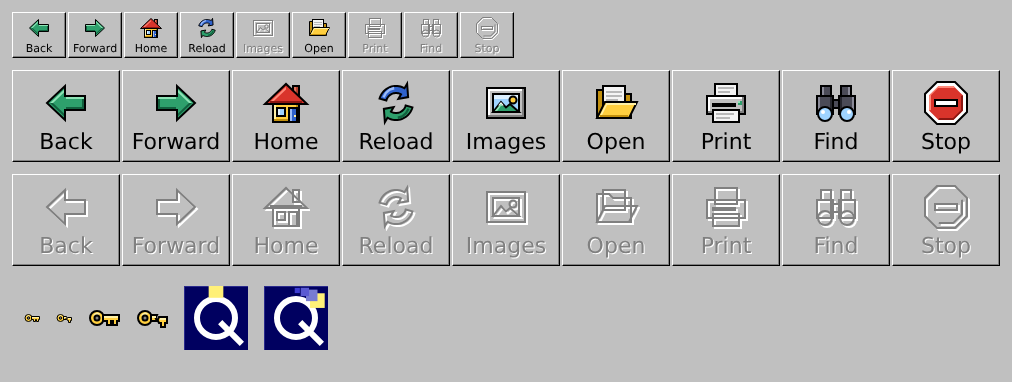
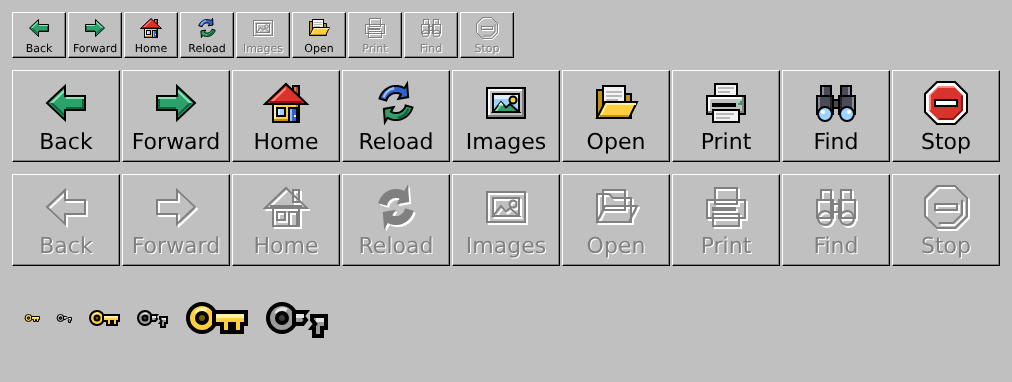
Tydligare nyckel, throbbern i kod, licens och avstängd Ladda om
Efter granskningen av #8:

- Nyckeln: hel är guld, bruten är grå och i två delar med ett avbrott
  och den yttre delen nedfallen, så skillnaden syns i 16 bildpunkter.
- Throbbern rör sig och ritas i kod (qb_icon_throbber). De två
  stillbilderna är borttagna.
- Avstängd Ladda om är en grå siluett; bågarna var för smala för två
  konturer om varandra vid 100 %.
- LICENSE: Apache 2.0, som generic_gdi och browser, och ett avsnitt om
  licensen i README.

Claude-Session: https://claude.ai/code/session_01QpfqBt8BiUYdJsvCunZ25n

Changed region(s): [[0.1225, 0.7487, 0.337, 0.9215], [0.3676, 0.4895, 0.4289, 0.6047]]

diff --git a/verktyg/webblasare.py b/verktyg/webblasare.py
@@ -11,8 +11,7 @@ Skriver svg/webblasare/:
       samma knapp avstängd: konturen i grått med en vit skugga, som förr
   nyckel-hel, nyckel-bruten
       statusradens nyckel, 16 x 16 u
-  throbber, throbber-laddar
-      bilden uppe till höger, 64 x 64 u, i vila och i en bild ur rörelsen
+Throbbern uppe till höger rör sig och ritas i kod (qb_icon_throbber), inte här.
 
 Stilen: svart kontur, platta färger, en ljus fasett uppe till vänster och en
 mörk nere till höger, som ikonerna i verktygsfälten i mitten av 90-talet.
@@ -93,16 +92,19 @@ def ljushet(hexf):
     return 0.2126 * r + 0.7152 * g + 0.0722 * b
 
 
-def inaktiv(former):
+def inaktiv(former, siluett=False):
     """
     Avstängd som i verktygsfälten förr: konturen och de mörka ytorna i
     grått, och samma sak i vitt en enhet ned och åt höger, bakom.
-    De ljusa ytorna försvinner.
+    De ljusa ytorna försvinner. Med siluett fylls varje form med kontur,
+    för en knapp vars former är för smala för två konturer i 24 bildpunkter.
     """
     def lager(farg, dx):
         ut = []
         for typ, g, fy, ko in former:
-            fyll = farg if ljushet(fy) < 0.2 else "none"
+            if siluett and not ko:
+                continue
+            fyll = farg if siluett or ljushet(fy) < 0.2 else "none"
             if fyll == "none" and not ko:
                 continue
             g2 = flytta((typ, g), dx)
@@ -306,7 +308,7 @@ KNAPPAR = {
     "bakat": ("Bakåt", "QBI_BACK", bakat),
     "framat": ("Framåt", "QBI_FORWARD", framat),
     "hem": ("Hem", "QBI_HOME", hem),
-    "ladda-om": ("Ladda om", "QBI_RELOAD", ladda_om),
+    "ladda-om": ("Ladda om", "QBI_RELOAD", ladda_om, True),
     "bilder": ("Bilder", "QBI_IMAGES", bilder),
     "oppna": ("Öppna", "QBI_OPEN", oppna),
     "skriv-ut": ("Skriv ut", "QBI_PRINT", skriv_ut),
@@ -315,14 +317,19 @@ KNAPPAR = {
 }
 
 
-# ---------------------------------------------------------------- nyckeln och throbbern
+# ---------------------------------------------------------------- nyckeln
 
 def nyckel(hel):
-    l, b, m = P["gul"]
+    """
+    Hel: guld, en säker anslutning. Bruten: grå, i två delar med ett tydligt
+    avbrott och den yttre delen nedfallen, så att skillnaden syns i 16 bildpunkter.
+    """
+    l, b, m = P["gul"] if hel else ("#E4E4E4", "#9C9C9C", "#5E5E5E")
+    hal = "#7A5A00" if hel else "#3C3C3C"
     ut = [
         cirkel(4.5, 8, 3.5, b),                    # handtaget
         bana("M2.6 6.6 A2.4 2.4 0 0 1 5.9 5.6 L5.4 6.5 A1.4 1.4 0 0 0 3.5 7.2 Z", l, False),
-        cirkel(4.5, 8, 1.25, "#808080"),           # hålet
+        cirkel(4.5, 8, 1.25, hal),                 # hålet
     ]
     if hel:
         ut += [
@@ -332,36 +339,15 @@ def nyckel(hel):
         ]
     else:
         ut += [
-            poly([(7.5, 6.5), (10.5, 6.5), (9.8, 8), (10.5, 9.5), (7.5, 9.5)], b),
+            # stumpen vid handtaget, med en sågtandad brottyta
+            poly([(7.5, 6.5), (10.5, 6.5), (9.7, 7.5), (10.5, 8.5), (9.7, 9.5), (7.5, 9.5)], b),
             rekt(8, 7, 2, 1, l),
-            poly([(11.5, 7.5), (15.5, 7.5), (15.5, 10.5), (14.5, 10.5), (14.5, 12.5), (12.5, 12.5),
-                  (12.5, 10.5), (11.5, 10.5), (10.8, 9)], b),
-            rekt(12, 8, 3, 1, l),
+            # den yttre delen, en och en halv enhet bort och fallen ett steg
+            poly([(12, 7.5), (15.5, 7.5), (15.5, 10.5), (14.5, 10.5), (14.5, 12.5), (12.5, 12.5),
+                  (12.5, 10.5), (12, 10.5), (12.8, 9.5), (12, 8.5)], b),
+            rekt(13, 8, 2, 1, l),
         ]
     return ut
-
-
-def throbber(laddar):
-    """QzOS-Q:et med sina kometer, som qb_icon_throbber ritar det"""
-    s = '<rect x="0" y="0" width="64" height="64" fill="#000060"/>'
-    s += '<rect x="0" y="0" width="64" height="1" fill="#2A2A8C"/><rect x="0" y="0" width="1" height="64" fill="#2A2A8C"/>'
-    cx, cy, r = 32, 32, 19
-    s += f'<circle cx="{cx}" cy="{cy}" r="{r}" fill="none" stroke="#FFFFFF" stroke-width="6"/>'
-    s += (f'<path d="M{f(cx + r / 3)} {f(cy + r / 3)} L{f(cx + r * 1.25)} {f(cy + r * 1.25)}" '
-          f'fill="none" stroke="#FFFFFF" stroke-width="6" stroke-linecap="square"/>')
-    if laddar:
-        bild = 16  # en bild där kometerna är uppe till höger
-        for i in range(4):
-            a = bild * 0.35 - i * 0.28
-            px, py = cx + math.cos(a) * r * 1.45, cy + math.sin(a) * r * 1.45
-            d = (4 - i) * r / 12 + 1
-            c = "#FFF078" if i == 0 else ["#787CD2", "#5A5AD2", "#3C3CD2"][i - 1]
-            s += f'<rect x="{f(px - d)}" y="{f(py - d)}" width="{f(2 * d)}" height="{f(2 * d)}" fill="{c}"/>'
-    else:
-        d = 4 * r / 12 + 1
-        px, py = cx, cy - r * 1.45
-        s += f'<rect x="{f(px - d)}" y="{f(py - d)}" width="{f(2 * d)}" height="{f(2 * d)}" fill="#FFF078"/>'
-    return s
 
 
 # ---------------------------------------------------------------- filerna
@@ -376,16 +362,14 @@ def bygg():
     for gammal in UT.glob("*.svg"):
         gammal.unlink()
     n = 0
-    for namn, (titel, _, fn) in KNAPPAR.items():
+    for namn, (titel, _, fn, *flagga) in KNAPPAR.items():
+        siluett = bool(flagga and flagga[0])
         former = fn()
         (UT / f"{namn}.svg").write_text(dokument(24, titel, "".join(svg_form(s) for s in former)), encoding="utf-8")
-        (UT / f"{namn}-inaktiv.svg").write_text(dokument(24, f"{titel}, inaktiv", inaktiv(former)), encoding="utf-8")
+        (UT / f"{namn}-inaktiv.svg").write_text(dokument(24, f"{titel}, inaktiv", inaktiv(former, siluett)), encoding="utf-8")
         n += 2
     for hel, namn, titel in ((True, "nyckel-hel", "Säker anslutning"), (False, "nyckel-bruten", "Osäker anslutning")):
         (UT / f"{namn}.svg").write_text(dokument(16, titel, "".join(svg_form(s) for s in nyckel(hel))), encoding="utf-8")
-        n += 1
-    for laddar, namn, titel in ((False, "throbber", "QzOS, i vila"), (True, "throbber-laddar", "QzOS, laddar")):
-        (UT / f"{namn}.svg").write_text(dokument(64, titel, throbber(laddar)), encoding="utf-8")
         n += 1
     return n
 

diff --git a/verktyg/oversikt.py b/verktyg/oversikt.py
@@ -139,7 +139,7 @@ def webblasare():
 
     ovrigt = (f'<div class=f style="gap:16px;align-items:center;padding:8px 12px">'
               f'{fil("nyckel-hel", 1)}{fil("nyckel-bruten", 1)}{fil("nyckel-hel", 2)}{fil("nyckel-bruten", 2)}'
-              f'{fil("throbber", 1)}{fil("throbber-laddar", 1)}</div>')
+              f'{fil("nyckel-hel", 4)}{fil("nyckel-bruten", 4)}</div>')
     return f"""<!doctype html><meta charset=utf-8><style>
 body{{margin:0;padding:12px;background:#C0C0C0;font-family:"DejaVu Sans",sans-serif;width:max-content}}
 .f{{display:flex;gap:2px;margin-bottom:12px}}

diff --git a/README.md b/README.md
@@ -127,15 +127,15 @@ efter Netscape.
 |---|---|---|
 | `bakat`, `framat`, `hem`, `ladda-om`, `bilder`, `oppna`, `skriv-ut`, `sok`, `stopp` | 24 u | `QBI_BACK` … `QBI_STOP` |
 | samma med `-inaktiv` | 24 u | `grey`: avstängd knapp |
-| `nyckel-hel`, `nyckel-bruten` | 16 u | `qb_icon_key`, säker och osäker |
-| `throbber`, `throbber-laddar` | 64 u | `qb_icon_throbber`, i vila och en bild ur rörelsen |
+| `nyckel-hel`, `nyckel-bruten` | 16 u | `qb_icon_key`: guld och hel när anslutningen är säker, grå och avbruten när den inte är det |
 
 Konturerna ligger på halva enheter och fasetterna på hela, så att varje
 rak kant är en hel bildpunkt vid 100 och 200 %. En avstängd knapp har
 konturen och de mörkaste ytorna i grått med samma sak i vitt en enhet
-ned och åt höger, som verktygsfälten förr. Alla 22 filer tolkas av
-libsvg i strikt läge. Throbbern rör sig fortfarande i programmet;
-stillbilderna visar hur den ser ut.
+ned och åt höger, som verktygsfälten förr. Avstängd Ladda om är en grå
+siluett, eftersom dess smala bågar blir grötiga med två konturer vid 100 %.
+Alla 20 filer tolkas av libsvg i strikt läge. Throbbern rör sig och ritas
+i kod (`qb_icon_throbber`), så den finns inte här.
 
 ## Bygg om referenserna
 
@@ -157,3 +157,9 @@ bland annat i npm-paketet `@fontsource/manrope`.
 är ett begränsat temalager för knapp, textfält, meny och titelrad, i
 båda temana vid 100, 125, 150 och 200 %, med verklig textrendering
 och tangentbordsnavigering.
+
+## Licens
+
+Apache License 2.0, som QzOS/generic_gdi och QzOS/browser. Se
+[`LICENSE`](LICENSE). Det gäller allt i repot: källor, generatorer,
+genererade SVG-filer, bilder och dokument.
